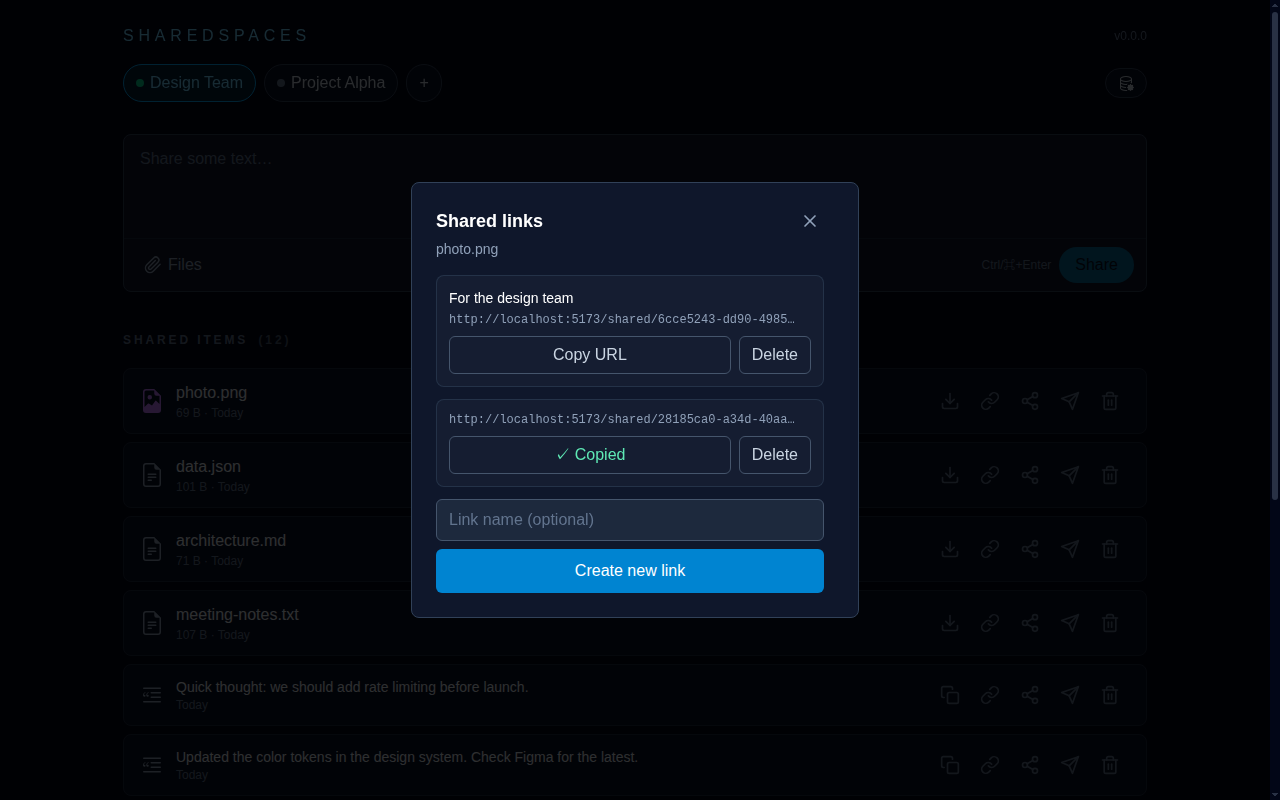
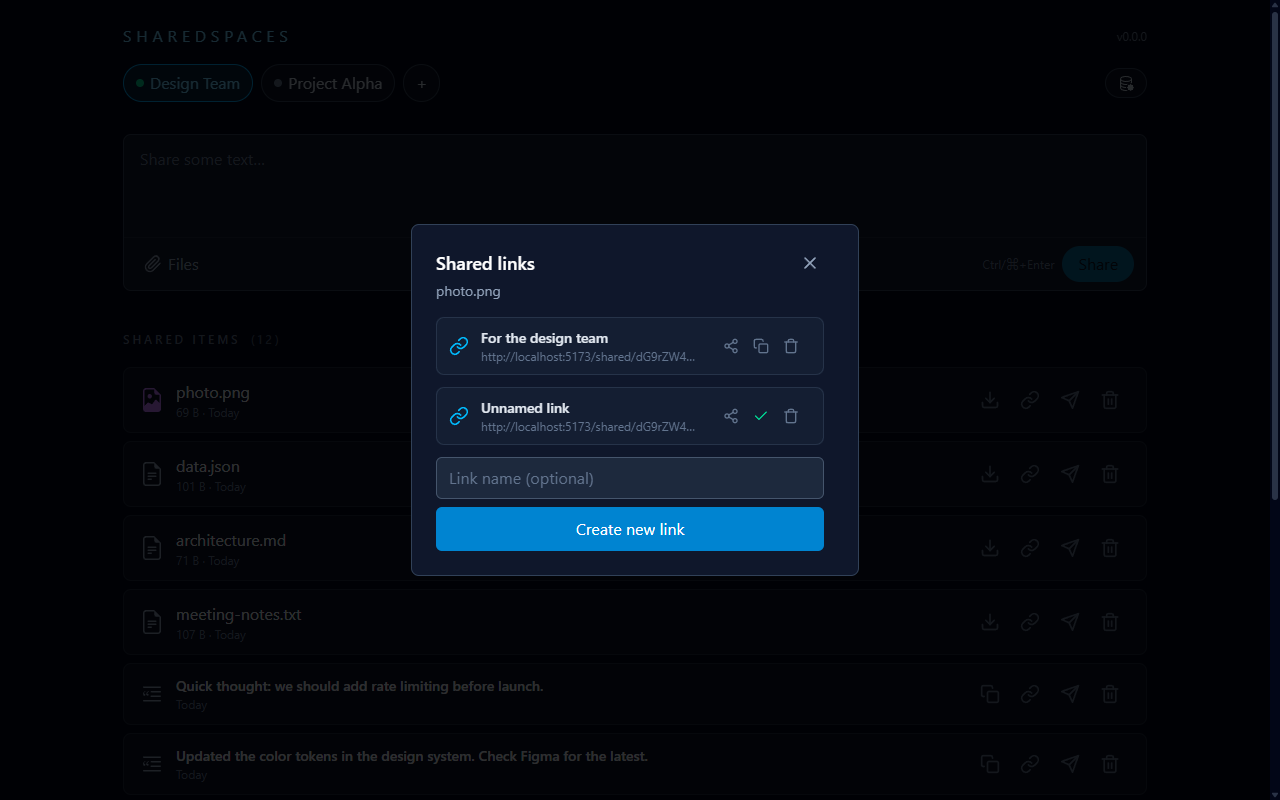
feat(client): restyle shared links as item cards (#165)

diff --git a/src/SharedSpaces.Client/src/features/space-view/space-view.ts b/src/SharedSpaces.Client/src/features/space-view/space-view.ts
@@ -103,7 +103,6 @@ export class SpaceView extends BaseElement {
   @state() private shareModalDeleteConfirmId: string | null = null;
   @state() private shareCopiedLinkId: string | null = null;
   @state() private shareModalName = '';
-  @state() private shareItemCopiedIds = new Set<string>();
 
   private _previewRequestId = 0;
 
@@ -937,50 +936,6 @@ export class SpaceView extends BaseElement {
 
   // --- Shared link handlers ---
 
-  private handleShareItem = async (item: SpaceItemResponse) => {
-    if (!this.serverUrl || !this.spaceId || !this.token) return;
-
-    try {
-      const link = await createSharedLink(
-        this.serverUrl,
-        this.spaceId,
-        item.id,
-        this.token,
-      );
-      const shareUrl = buildShareUrl(link.token, this.serverUrl);
-
-      // Try native share first, fall back to clipboard
-      if (navigator.share) {
-        try {
-          await navigator.share({
-            title: item.contentType === 'file' ? item.content : 'Shared text',
-            url: shareUrl,
-          });
-        } catch {
-          // Native share failed or user cancelled — always copy to clipboard as fallback
-          await this.copyToClipboard(shareUrl);
-        }
-      } else {
-        await this.copyToClipboard(shareUrl);
-      }
-
-      // Brief visual feedback on the button
-      this.shareItemCopiedIds = new Set([...this.shareItemCopiedIds, item.id]);
-      setTimeout(() => {
-        const next = new Set(this.shareItemCopiedIds);
-        next.delete(item.id);
-        this.shareItemCopiedIds = next;
-      }, 1500);
-    } catch (error) {
-      if (error instanceof SpaceApiError && (error.status === 401 || error.status === 404)) {
-        this.connectionErrorType = 'auth';
-        this.errorMessage = 'Authentication failed. Your token may have been revoked or the space no longer exists.';
-        return;
-      }
-      // Non-critical; could surface later
-    }
-  };
-
   private async copyToClipboard(text: string) {
     try {
       await navigator.clipboard.writeText(text);
@@ -1044,15 +999,8 @@ export class SpaceView extends BaseElement {
       this.shareModalLinks = [...this.shareModalLinks, link];
       this.shareModalName = '';
 
-      // Auto-copy the new link
-      const shareUrl = buildShareUrl(link.token, this.serverUrl);
-      await this.copyToClipboard(shareUrl);
-      this.shareCopiedLinkId = link.id;
-      setTimeout(() => {
-        if (this.shareCopiedLinkId === link.id) {
-          this.shareCopiedLinkId = null;
-        }
-      }, 1500);
+      // Open system share dialog for the new link
+      await this.shareOrCopyLink(link);
     } catch (error) {
       if (error instanceof SpaceApiError) {
         this.shareModalError = error.message;
@@ -1068,6 +1016,30 @@ export class SpaceView extends BaseElement {
     const shareUrl = this.serverUrl
       ? buildShareUrl(link.token, this.serverUrl)
       : `${window.location.origin}/shared/${link.token}`;
+    await this.copyToClipboard(shareUrl);
+    this.shareCopiedLinkId = link.id;
+    setTimeout(() => {
+      if (this.shareCopiedLinkId === link.id) {
+        this.shareCopiedLinkId = null;
+      }
+    }, 1500);
+  };
+
+  private shareOrCopyLink = async (link: SharedLinkResponse) => {
+    const shareUrl = this.serverUrl
+      ? buildShareUrl(link.token, this.serverUrl)
+      : `${window.location.origin}/shared/${link.token}`;
+    const title = link.name || this.getItemPreviewLabel(this.shareModalItem!) || 'Shared item';
+
+    if (navigator.share) {
+      try {
+        await navigator.share({ title, url: shareUrl });
+        return;
+      } catch {
+        // User cancelled or share failed — fall back to clipboard
+      }
+    }
+
     await this.copyToClipboard(shareUrl);
     this.shareCopiedLinkId = link.id;
     setTimeout(() => {
@@ -1572,31 +1544,15 @@ export class SpaceView extends BaseElement {
     `;
   }
 
-  private renderShareButton(item: SpaceItemResponse) {
-    const shared = this.shareItemCopiedIds.has(item.id);
-    return html`
-      <button
-        @click=${() => this.handleShareItem(item)}
-        class="cursor-pointer rounded p-2 text-slate-500 transition hover:text-violet-400"
-        title=${shared ? 'Link copied!' : 'Share link'}
-        aria-label=${shared ? 'Share link copied' : 'Create and copy share link'}
-      >
-        ${shared
-          ? html`<svg xmlns="http://www.w3.org/2000/svg" width="20" height="20" viewBox="0 0 24 24" fill="none" stroke="currentColor" stroke-width="2" stroke-linecap="round" stroke-linejoin="round" class="text-emerald-400"><polyline points="20 6 9 17 4 12"></polyline></svg>`
-          : html`<svg xmlns="http://www.w3.org/2000/svg" width="20" height="20" viewBox="0 0 24 24" fill="none" stroke="currentColor" stroke-width="2" stroke-linecap="round" stroke-linejoin="round"><path d="M10 13a5 5 0 0 0 7.54.54l3-3a5 5 0 0 0-7.07-7.07l-1.72 1.71"></path><path d="M14 11a5 5 0 0 0-7.54-.54l-3 3a5 5 0 0 0 7.07 7.07l1.71-1.71"></path></svg>`}
-      </button>
-    `;
-  }
-
   private renderManageLinksButton(item: SpaceItemResponse) {
     return html`
       <button
         @click=${() => this.openShareModal(item)}
         class="cursor-pointer rounded p-2 text-slate-500 transition hover:text-violet-400"
-        title="Manage shared links"
-        aria-label="Manage shared links"
+        title="Shared links"
+        aria-label="Shared links"
       >
-        <svg xmlns="http://www.w3.org/2000/svg" width="20" height="20" viewBox="0 0 24 24" fill="none" stroke="currentColor" stroke-width="2" stroke-linecap="round" stroke-linejoin="round"><circle cx="18" cy="5" r="3"></circle><circle cx="6" cy="12" r="3"></circle><circle cx="18" cy="19" r="3"></circle><line x1="8.59" y1="13.51" x2="15.42" y2="17.49"></line><line x1="15.41" y1="6.51" x2="8.59" y2="10.49"></line></svg>
+        <svg xmlns="http://www.w3.org/2000/svg" width="20" height="20" viewBox="0 0 24 24" fill="none" stroke="currentColor" stroke-width="2" stroke-linecap="round" stroke-linejoin="round"><path d="M10 13a5 5 0 0 0 7.54.54l3-3a5 5 0 0 0-7.07-7.07l-1.72 1.71"></path><path d="M14 11a5 5 0 0 0-7.54-.54l-3 3a5 5 0 0 0 7.07 7.07l1.71-1.71"></path></svg>
       </button>
     `;
   }
@@ -1668,7 +1624,6 @@ export class SpaceView extends BaseElement {
       <!-- Right: Actions -->
       <div class="-mr-2 flex shrink-0 items-center gap-1">
         ${this.renderCopyButton(item)}
-        ${this.renderShareButton(item)}
         ${this.renderManageLinksButton(item)}
         ${this.renderSendToButton(item)}
         ${this.renderDeleteButton(item)}
@@ -1703,7 +1658,6 @@ export class SpaceView extends BaseElement {
       <!-- Right: Actions -->
       <div class="-mr-2 flex shrink-0 items-center gap-1">
         ${this.renderDownloadButton(item)}
-        ${this.renderShareButton(item)}
         ${this.renderManageLinksButton(item)}
         ${this.renderSendToButton(item)}
         ${this.renderDeleteButton(item)}
@@ -1991,16 +1945,56 @@ export class SpaceView extends BaseElement {
     const isConfirming = this.shareModalDeleteConfirmId === link.id;
 
     return html`
-      <div class="rounded-lg border border-slate-700/60 bg-slate-800/40 p-3">
-        ${link.name
-          ? html`<p class="mb-1 text-sm font-medium text-white truncate" title=${link.name}>${link.name}</p>`
-          : nothing}
-        <p class="mb-2 truncate font-mono text-xs text-slate-400" title=${shareUrl}>
-          ${shareUrl}
-        </p>
+      <div class="relative overflow-hidden rounded-lg border border-slate-700/60 bg-slate-800/40 px-3 py-2.5">
+        <div class="flex items-center gap-3">
+          <!-- Left: Link icon -->
+          <div class="shrink-0 text-sky-400" aria-hidden="true">
+            <svg xmlns="http://www.w3.org/2000/svg" width="20" height="20" viewBox="0 0 24 24" fill="none" stroke="currentColor" stroke-width="2" stroke-linecap="round" stroke-linejoin="round"><path d="M10 13a5 5 0 0 0 7.54.54l3-3a5 5 0 0 0-7.07-7.07l-1.72 1.71"></path><path d="M14 11a5 5 0 0 0-7.54-.54l-3 3a5 5 0 0 0 7.07 7.07l1.71-1.71"></path></svg>
+          </div>
+          <!-- Center: Name + URL -->
+          <div class="min-w-0 flex-1">
+            <p class="truncate text-sm font-medium text-slate-200" title=${link.name || shareUrl}>
+              ${link.name || 'Unnamed link'}
+            </p>
+            <p class="truncate text-xs text-slate-500" title=${shareUrl}>
+              ${shareUrl} · <time datetime=${link.createdAt}>${this.formatTime(link.createdAt)}</time>
+            </p>
+          </div>
+          <!-- Right: Actions -->
+          <div class="-mr-1 flex shrink-0 items-center gap-0.5">
+            <button
+              @click=${() => this.shareOrCopyLink(link)}
+              class="cursor-pointer rounded p-1.5 text-slate-500 transition hover:text-sky-400"
+              title="Share"
+              aria-label="Share link"
+            >
+              <svg xmlns="http://www.w3.org/2000/svg" width="16" height="16" viewBox="0 0 24 24" fill="none" stroke="currentColor" stroke-width="2" stroke-linecap="round" stroke-linejoin="round"><circle cx="18" cy="5" r="3"></circle><circle cx="6" cy="12" r="3"></circle><circle cx="18" cy="19" r="3"></circle><line x1="8.59" y1="13.51" x2="15.42" y2="17.49"></line><line x1="15.41" y1="6.51" x2="8.59" y2="10.49"></line></svg>
+            </button>
+            <button
+              @click=${() => this.handleCopyShareLink(link)}
+              class="cursor-pointer rounded p-1.5 transition ${isCopied
+                ? 'text-emerald-400'
+                : 'text-slate-500 hover:text-slate-300'}"
+              title=${isCopied ? 'Copied!' : 'Copy link URL'}
+              aria-label=${isCopied ? 'Copied to clipboard' : 'Copy link URL'}
+            >
+              ${isCopied
+                ? html`<svg xmlns="http://www.w3.org/2000/svg" width="16" height="16" viewBox="0 0 24 24" fill="none" stroke="currentColor" stroke-width="2" stroke-linecap="round" stroke-linejoin="round"><polyline points="20 6 9 17 4 12"></polyline></svg>`
+                : html`<svg xmlns="http://www.w3.org/2000/svg" width="16" height="16" viewBox="0 0 24 24" fill="none" stroke="currentColor" stroke-width="2" stroke-linecap="round" stroke-linejoin="round"><rect x="9" y="9" width="13" height="13" rx="2" ry="2"></rect><path d="M5 15H4a2 2 0 0 1-2-2V4a2 2 0 0 1 2-2h9a2 2 0 0 1 2 2v1"></path></svg>`}
+            </button>
+            <button
+              @click=${() => { this.shareModalDeleteConfirmId = link.id; }}
+              class="cursor-pointer rounded p-1.5 text-slate-500 transition hover:text-red-400"
+              title="Delete link"
+              aria-label="Delete shared link"
+            >
+              <svg xmlns="http://www.w3.org/2000/svg" width="16" height="16" viewBox="0 0 24 24" fill="none" stroke="currentColor" stroke-width="2" stroke-linecap="round" stroke-linejoin="round"><polyline points="3 6 5 6 21 6"></polyline><path d="M19 6v14a2 2 0 0 1-2 2H7a2 2 0 0 1-2-2V6m3 0V4a2 2 0 0 1 2-2h4a2 2 0 0 1 2 2v2"></path></svg>
+            </button>
+          </div>
+        </div>
         ${isConfirming
           ? html`
-              <div class="flex items-center justify-between gap-2">
+              <div class="absolute inset-0 z-10 flex items-center justify-center gap-3 rounded-lg bg-slate-900/95 px-3 py-2.5 backdrop-blur-sm">
                 <p class="text-xs text-slate-300">Delete this link?</p>
                 <div class="flex gap-2">
                   <button
@@ -2014,24 +2008,7 @@ export class SpaceView extends BaseElement {
                 </div>
               </div>
             `
-          : html`
-              <div class="flex gap-2">
-                <button
-                  @click=${() => this.handleCopyShareLink(link)}
-                  class="flex-1 cursor-pointer rounded-md border border-slate-600 px-3 py-1.5 text-xs font-medium transition ${isCopied
-                    ? 'border-emerald-500/50 text-emerald-300'
-                    : 'text-slate-300 hover:border-slate-500 hover:text-white'}"
-                >
-                  ${isCopied ? '✓ Copied' : 'Copy URL'}
-                </button>
-                <button
-                  @click=${() => { this.shareModalDeleteConfirmId = link.id; }}
-                  class="cursor-pointer rounded-md border border-slate-600 px-3 py-1.5 text-xs font-medium text-slate-300 transition hover:border-red-500/50 hover:text-red-300"
-                >
-                  Delete
-                </button>
-              </div>
-            `}
+          : nothing}
       </div>
     `;
   }

diff --git a/src/SharedSpaces.Client/e2e/screenshots.spec.ts b/src/SharedSpaces.Client/e2e/screenshots.spec.ts
@@ -505,16 +505,20 @@ test.describe('Screenshot Capture', () => {
     });
 
     test(`space view - share modal - ${vp.name}`, async ({ page }) => {
+      // Disable navigator.share so link creation falls back to clipboard copy
+      await page.addInitScript(() => { Object.defineProperty(navigator, 'share', { value: undefined, writable: true }); });
+
       await page.goto(CLIENT_URL);
       await injectTokens(page, tokenMap);
       await page.reload();
       await page.waitForSelector('app-shell');
+
       await page.click('nav button:first-child');
       await page.waitForSelector('space-view');
       await page.waitForTimeout(1000);
 
-      // Click "Manage shared links" button on the first item
-      const manageBtn = page.locator('button[aria-label="Manage shared links"]').first();
+      // Click "Shared links" button on the first item
+      const manageBtn = page.locator('button[aria-label="Shared links"]').first();
       await manageBtn.click();
       // Wait for the share modal to appear (heading: "Shared links")
       await page.waitForFunction(
